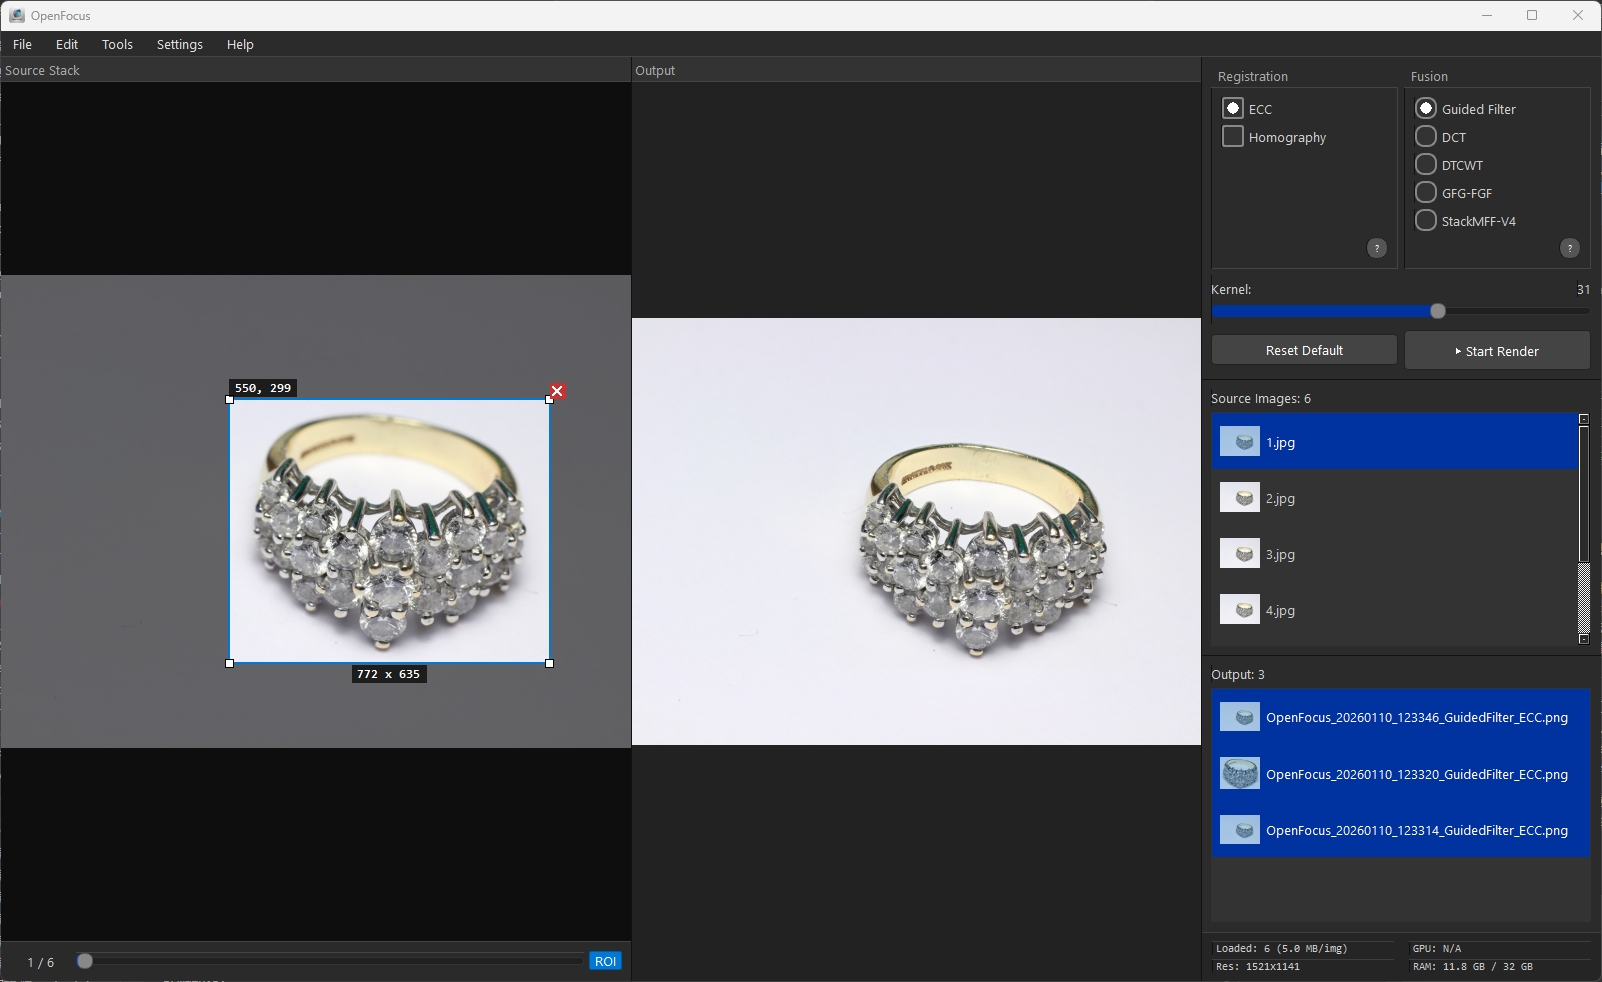
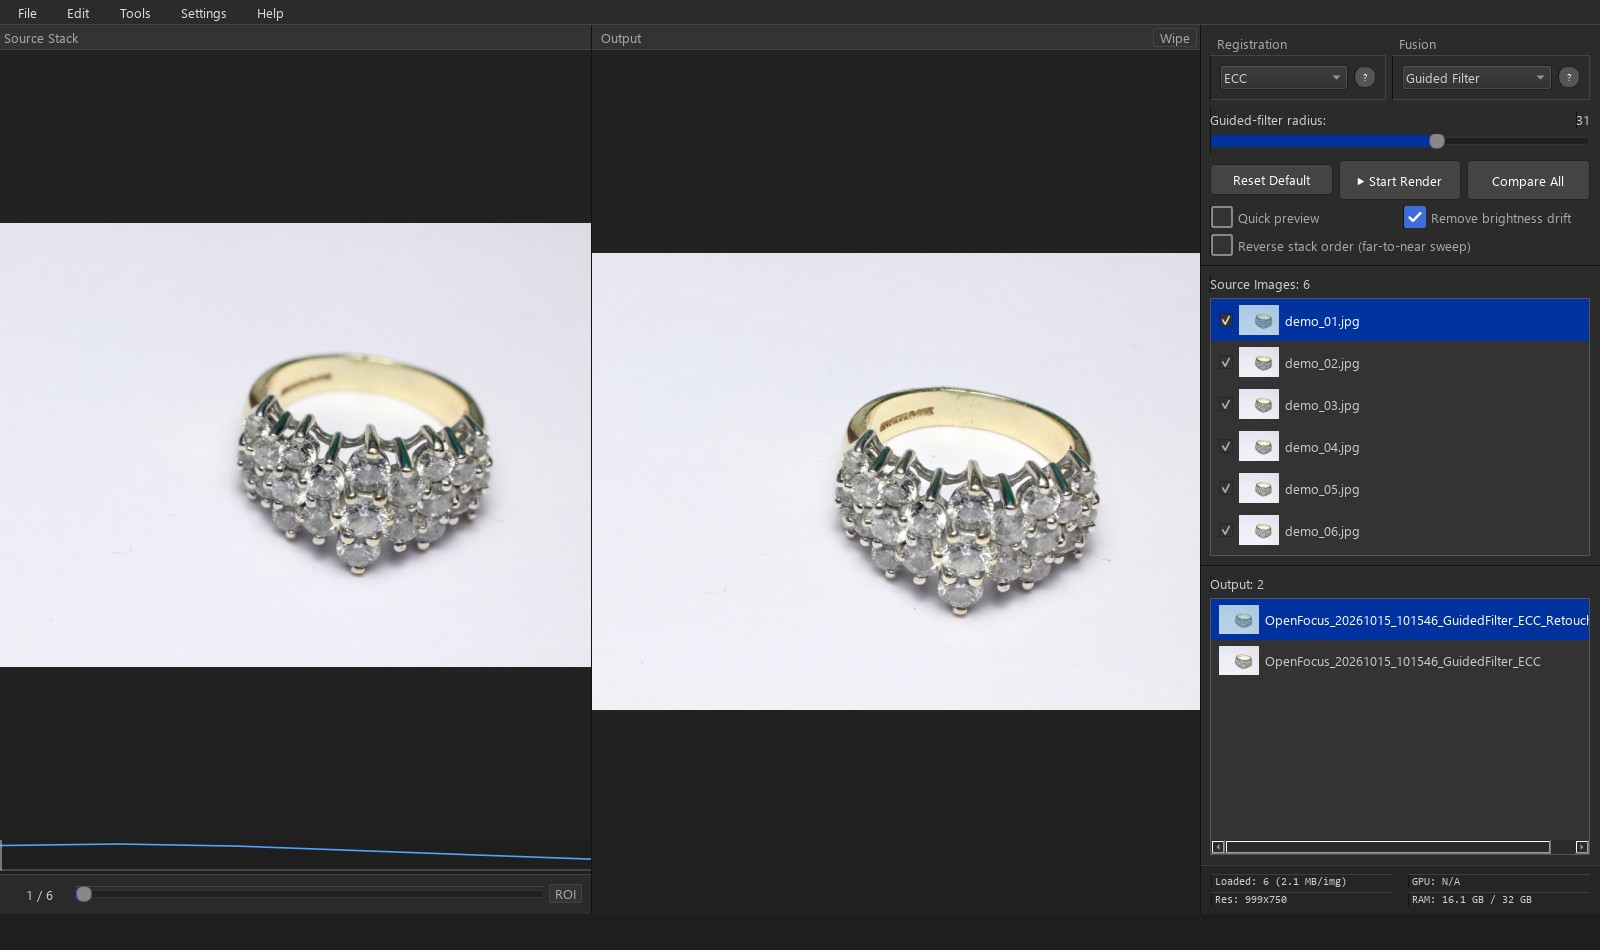
v1.53: GFG-FGF fallback filter quality, async file drops, single-selection outputs, light-theme help buttons, new screenshot

diff --git a/constants.py b/constants.py
@@ -1,4 +1,4 @@
-APP_VERSION = "1.52"
+APP_VERSION = "1.53"
 
 WINDOW_WIDTH = 1600
 WINDOW_HEIGHT = 950

diff --git a/README.md b/README.md
@@ -13,7 +13,7 @@ OpenFocus delivers focus stacking quality that rivals commercial-grade software,
 ## 📢 News
 
 > [!NOTE]
-> **2026.10.15 · v1.52 — retouch brush & a quality pass.** New **Retouch** tool (`Ctrl+T`): paint pixels from a source frame onto the result to fix halos — it auto-picks the sharpest frame under the brush. **DTCWT** rebuilt (+5 dB on the ground-truth benchmark), **GFG-FGF** now follows its paper ([#5](https://github.com/Xinzhe99/OpenFocus/issues/5)) and no longer drops small in-focus objects. Smoother workflow: no modal popup after every render, live progress, optional load-scale prompt, per-method kernel memory, Ctrl+S saves the selected output.
+> **2026.10.15 · v1.52–v1.53 — retouch brush & a quality pass.** New **Retouch** tool (`Ctrl+T`): paint pixels from a source frame onto the result to fix halos — it auto-picks the sharpest frame under the brush. **DTCWT** rebuilt (+5 dB on the ground-truth benchmark), **GFG-FGF** now follows its paper ([#5](https://github.com/Xinzhe99/OpenFocus/issues/5)) and no longer drops small in-focus objects. Smoother workflow: no modal popup after every render, live progress, optional load-scale prompt, per-method kernel memory, Ctrl+S saves the selected output.
 
 > **2026.10.14 · v1.50–v1.51** — dust-map flat-field fixes, in-place background updates with per-version release notes.
 

diff --git a/CHANGELOG.md b/CHANGELOG.md
@@ -3,6 +3,29 @@
 All notable changes to OpenFocus are documented in this file.
 Format based on [Keep a Changelog](https://keepachangelog.com/en/1.1.0/).
 
+## [v1.53] — 2026-10-15
+
+Follow-up polish to v1.52, found while verifying it on CI and in the light
+theme.
+
+### Fixed
+- **GFG-FGF quality for installer and pip users**: neither ships
+  opencv-contrib, so everyone runs the built-in fast guided filter, which
+  subsampled with nearest-neighbour and aliased fine texture (39.7 dB vs
+  40.8 dB on the ground-truth benchmark). Area averaging now matches
+  opencv-contrib's filter.
+- **Dropping image files froze the window while they decoded**; file drops
+  (and files opened on the app icon) now load on the background worker like
+  folders.
+- **After a second render every previous output stayed selected**, which
+  disabled Save As and Retouch in the context menu; only the new output is
+  selected now. The output tooltip leads with the full (often truncated)
+  name.
+- **Light theme**: the "?" help buttons were squeezed to a 1-pixel line; they
+  now sit beside their dropdowns (also tightening the dark layout). The
+  loading-scale dialog follows the theme instead of forcing dark.
+- README screenshot refreshed.
+
 ## [v1.52] — 2026-10-15
 
 A review-driven quality round: one new tool (retouch), two algorithm
